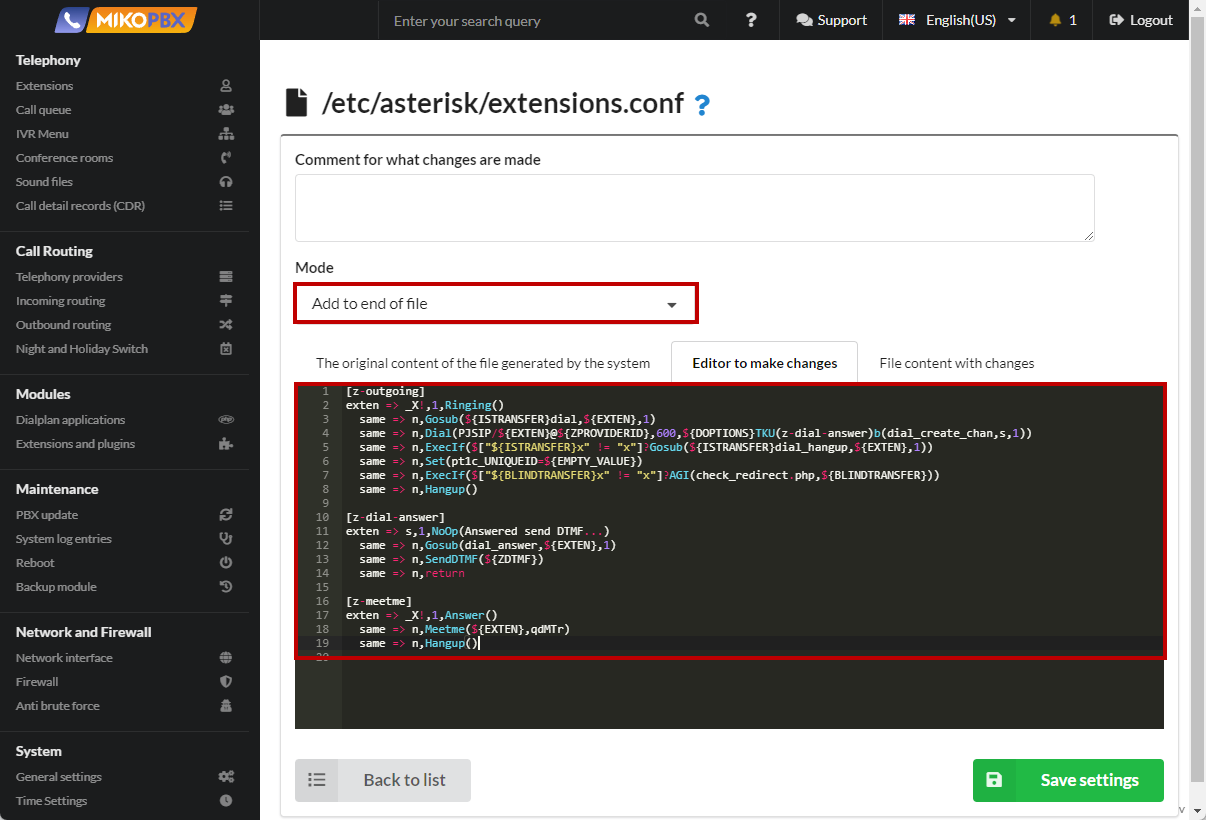
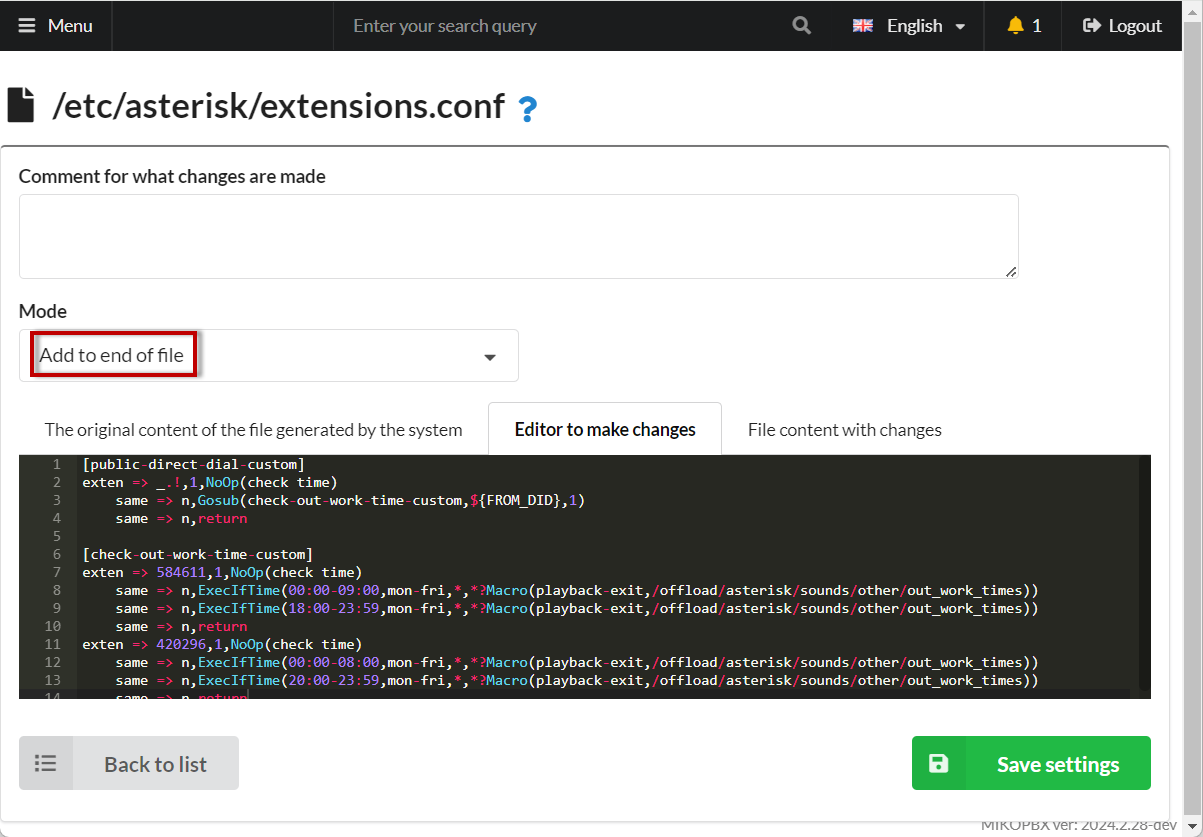
GITBOOK-330: No subject

diff --git a/faq/cases/non-working-hours-for-several-providers-on-one-host.md b/faq/cases/non-working-hours-for-several-providers-on-one-host.md
@@ -1,0 +1,67 @@
+# Setting up individual non-working hours for several providers on one host
+
+## Task <a href="#postanovka_zadachi" id="postanovka_zadachi"></a>
+
+We have two accounts from the Zadarma provider, configured in MikoPBX following this [guide](registering-multiple-accounts-from-one-provider.md).
+
+<figure><img src="../../.gitbook/assets/image.png" alt=""><figcaption><p>Two accounts</p></figcaption></figure>
+
+Each Zadarma number needs to have its own non-working hours. For example, the number +60 17 308 9237 has working hours from 9:00 AM to 6:00 PM, while the number +60 17 308 2584 has working hours from 8:00 AM to 8:00 PM.
+
+## Solution <a href="#reshenie" id="reshenie"></a>
+
+1. Go to **System** → **System File Customization**.
+
+<figure><img src="../../.gitbook/assets/systemFileCustomization.png" alt=""><figcaption></figcaption></figure>
+
+2. Open the **extensions.conf** configuration file for editing. Set the mode to "**Append to the end of the file**". In the black editing window, add the following code snippet:
+
+```php
+[public-direct-dial-custom]
+exten => _.!,1,NoOp(check time)
+    same => n,Gosub(check-out-work-time-custom,${FROM_DID},1)
+    same => n,return
+	
+[check-out-work-time-custom]
+exten => 584611,1,NoOp(check time)
+    same => n,ExecIfTime(00:00-09:00,mon-fri,*,*?Macro(playback-exit,/offload/asterisk/sounds/other/out_work_times))
+    same => n,ExecIfTime(18:00-23:59,mon-fri,*,*?Macro(playback-exit,/offload/asterisk/sounds/other/out_work_times))
+    same => n,return
+exten => 420296,1,NoOp(check time)
+    same => n,ExecIfTime(00:00-08:00,mon-fri,*,*?Macro(playback-exit,/offload/asterisk/sounds/other/out_work_times))
+    same => n,ExecIfTime(20:00-23:59,mon-fri,*,*?Macro(playback-exit,/offload/asterisk/sounds/other/out_work_times))
+    same => n,return
+```
+
+<figure><img src="../../.gitbook/assets/codeForExtensionsConf.png" alt=""><figcaption><p>Code at the end of the extensions.conf file</p></figcaption></figure>
+
+In the above code fragment, you need to specify the logins for your provider accounts. In our example, the following data was used:
+
+*   **584611** - the login for the provider account linked to the phone number +60 17 308 9237.
+
+    The working hours are from 9:00 to 18:00. Therefore, two intervals for non-working hours need to be set: 00:00-09:00 and 18:00-23:59.
+*   **420296** - the login for the provider account linked to the phone number +60 17 308 2584.
+
+    The working hours are from 8:00 to 20:00. Therefore, two intervals for non-working hours need to be set: 00:00-08:00 and 20:00-23:59.
+
+Below, the fragments highlighted in red are the ones you need to modify:
+
+<figure><img src="../../.gitbook/assets/image (1).png" alt=""><figcaption><p>Fragments to change</p></figcaption></figure>
+
+Let's break down the **ExecIfTime** command in more detail. This command executes the specified Asterisk application if the current time matches the given time specification. In our case, the command plays an audio file located in the directory **/offload/asterisk/sounds/other/out\_work\_times** in MikoPBX. Command syntax:
+
+```
+ExecIfTime(times,weekdays,mdays,months?appname[(appargs)])
+```
+
+* **times** - Time ranges in 24-hour format
+* **weekdays** - Days of the week (mon, tue, wed, thu, fri, sat, sun)
+* **mdays** - Days of the month (1-31)
+* **months** - Months (jan, feb, mar, apr, etc.)
+* **appname\[(appargs)]** - the Asterisk command with its call parameters
+
+In our example, a time range and a range of weekdays are specified. Instead of specifying days of the month and months, a \* is used, meaning "for all other cases."
+
+```
+ExecIfTime(00:00-08:00,mon-fri,*,*?Macro(playback-exit,/offload/asterisk/sounds/other/out_work_times))
+```

diff --git a/setup/hypervisor/vmware-fusion.md b/setup/hypervisor/vmware-fusion.md
@@ -60,7 +60,7 @@ Click "**Continue**"
 
 &#x20;Click "**Apply**"
 
-<figure><img src="../../.gitbook/assets/image (2).png" alt=""><figcaption></figcaption></figure>
+<figure><img src="../../.gitbook/assets/image (2) (1).png" alt=""><figcaption></figcaption></figure>
 
 {% hint style="info" %}
 **1 hour** of recording conversations takes approximately **14mb** on disk.
@@ -90,7 +90,7 @@ In our case - _sdb_, enter its name and press **Enter**
 
 In our case - _sdc_, enter its name and press **Enter**
 
-<figure><img src="../../.gitbook/assets/image (1) (1).png" alt=""><figcaption></figcaption></figure>
+<figure><img src="../../.gitbook/assets/image (1) (1) (1).png" alt=""><figcaption></figcaption></figure>
 
 6. The system will reboot and MikoPBX will be ready for use.
 

diff --git a/SUMMARY.md b/SUMMARY.md
@@ -122,6 +122,7 @@
   * [Customer's assessment of the quality of service](faq/cases/customers-assessment-of-the-quality-of-service.md)
   * [Disabling "off-hours" for VIP numbers](faq/cases/disabling-off-hours-for-vip-rooms.md)
   * [Registering multiple accounts from one provider](faq/cases/registering-multiple-accounts-from-one-provider.md)
+  * [Setting up individual non-working hours for several providers on one host](faq/cases/non-working-hours-for-several-providers-on-one-host.md)
   * [Unique background music for the queue](faq/cases/unique-background-music-for-the-queue.md)
   * [Pause for Queue agent](faq/cases/pause-for-queue-agent.md)
   * [Setting up the "Paging" function](faq/cases/paging.md)

diff --git a/faq/outbound-routing/conference-with-a-regular-external-subscriber.md b/faq/outbound-routing/conference-with-a-regular-external-subscriber.md
@@ -151,7 +151,7 @@ exten => _X!,1,Answer()
   same => n,Hangup()
 ```
 
-<figure><img src="../../.gitbook/assets/codeForExtensionsConf.png" alt=""><figcaption><p>Code for Extensions.conf</p></figcaption></figure>
+<figure><img src="../../.gitbook/assets/codeForExtensionsConf (1).png" alt=""><figcaption><p>Code for Extensions.conf</p></figcaption></figure>
 
 {% hint style="info" %}
 When calling the conference number **354233**, an external subscriber with the number **37127776675** will automatically connect. As soon as the subscriber answers, the extension number **354233** will be dialed. As soon as all the "internal" participants have left the conference, the external subscriber will be disconnected.

diff --git a/faq/troubleshooting/solving-sound-problems.md b/faq/troubleshooting/solving-sound-problems.md
@@ -76,7 +76,7 @@ There are several problems that can be harder to detect at first glance. In prac
 
 Here's an example of network traffic analysis for a problematic call:
 
-<figure><img src="../../.gitbook/assets/image.png" alt=""><figcaption><p>Example of network traffic analysis</p></figcaption></figure>
+<figure><img src="../../.gitbook/assets/image (2).png" alt=""><figcaption><p>Example of network traffic analysis</p></figcaption></figure>
 
 In the image, you can see "**red-yellow dots**". These represent "dropped packets" that will not be played back to the client. In this case, increasing the **Jitter Buffer** value to **800** stabilized the audio and eliminated stuttering.
 

diff --git a/faq/softphones/telephone-macos.md b/faq/softphones/telephone-macos.md
@@ -8,7 +8,7 @@ This is the simplest client for users of Apple products. You can download it fro
 
 2. In the "**Domain**" field, enter the **IP address** of the MikoPBX to which the connection is being made
 
-<figure><img src="../../.gitbook/assets/image (1) (1) (1).png" alt=""><figcaption></figcaption></figure>
+<figure><img src="../../.gitbook/assets/image (1) (1) (1) (1).png" alt=""><figcaption></figcaption></figure>
 
 <figure><img src="../../.gitbook/assets/image (23).png" alt=""><figcaption></figcaption></figure>
 
